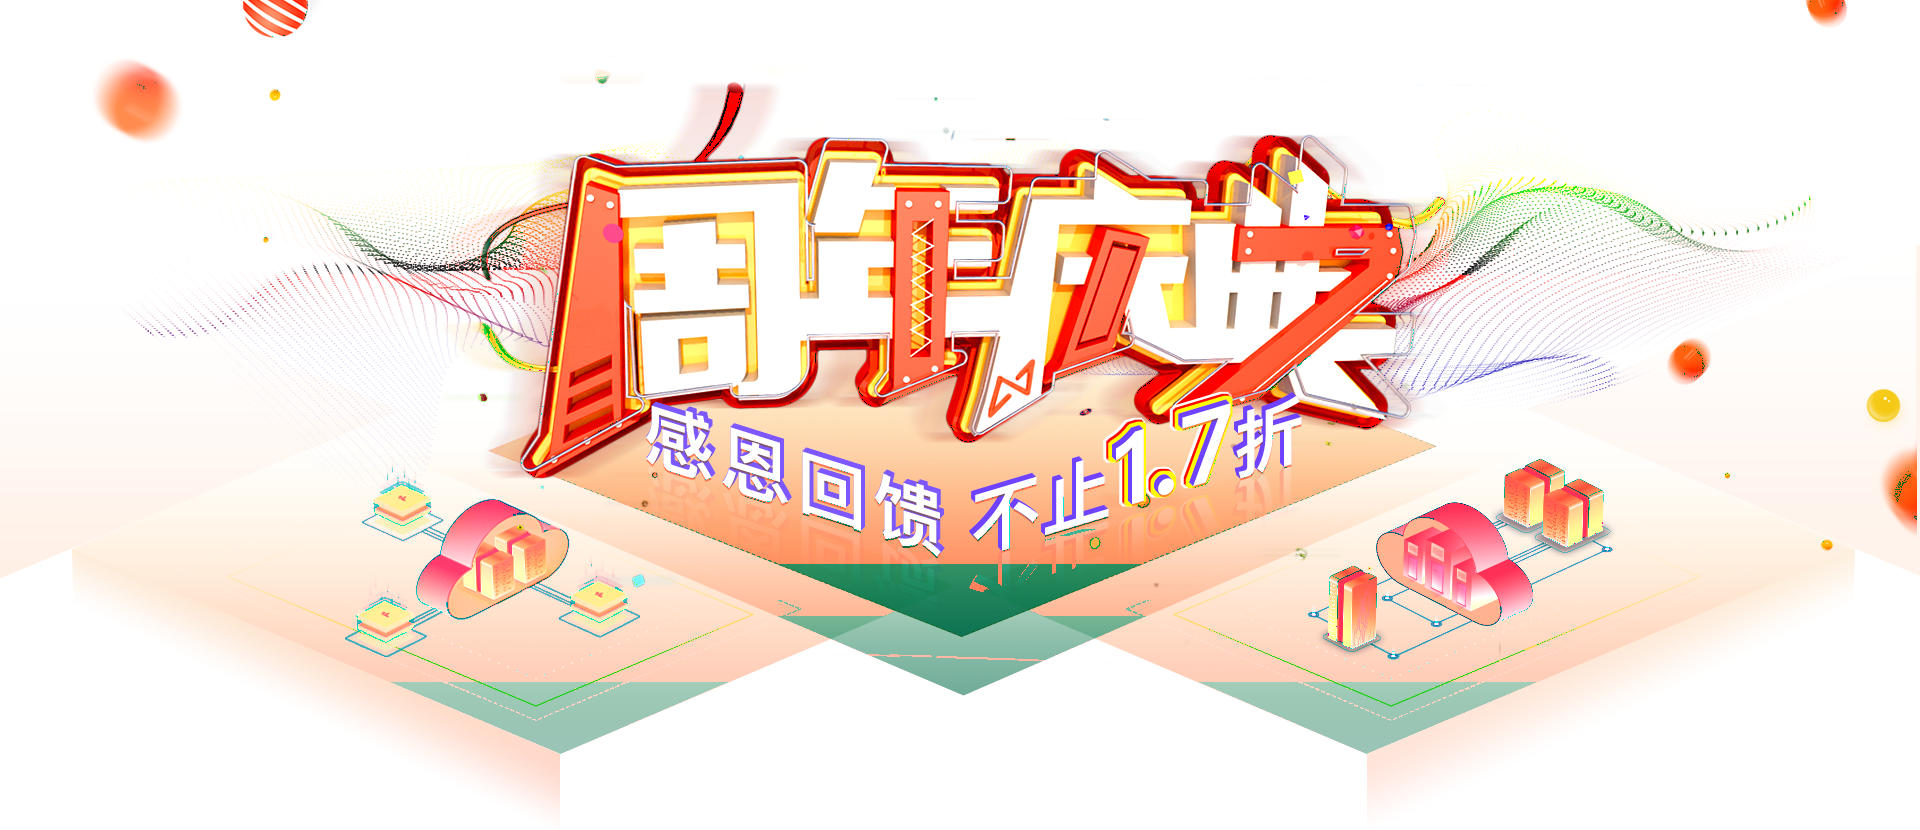
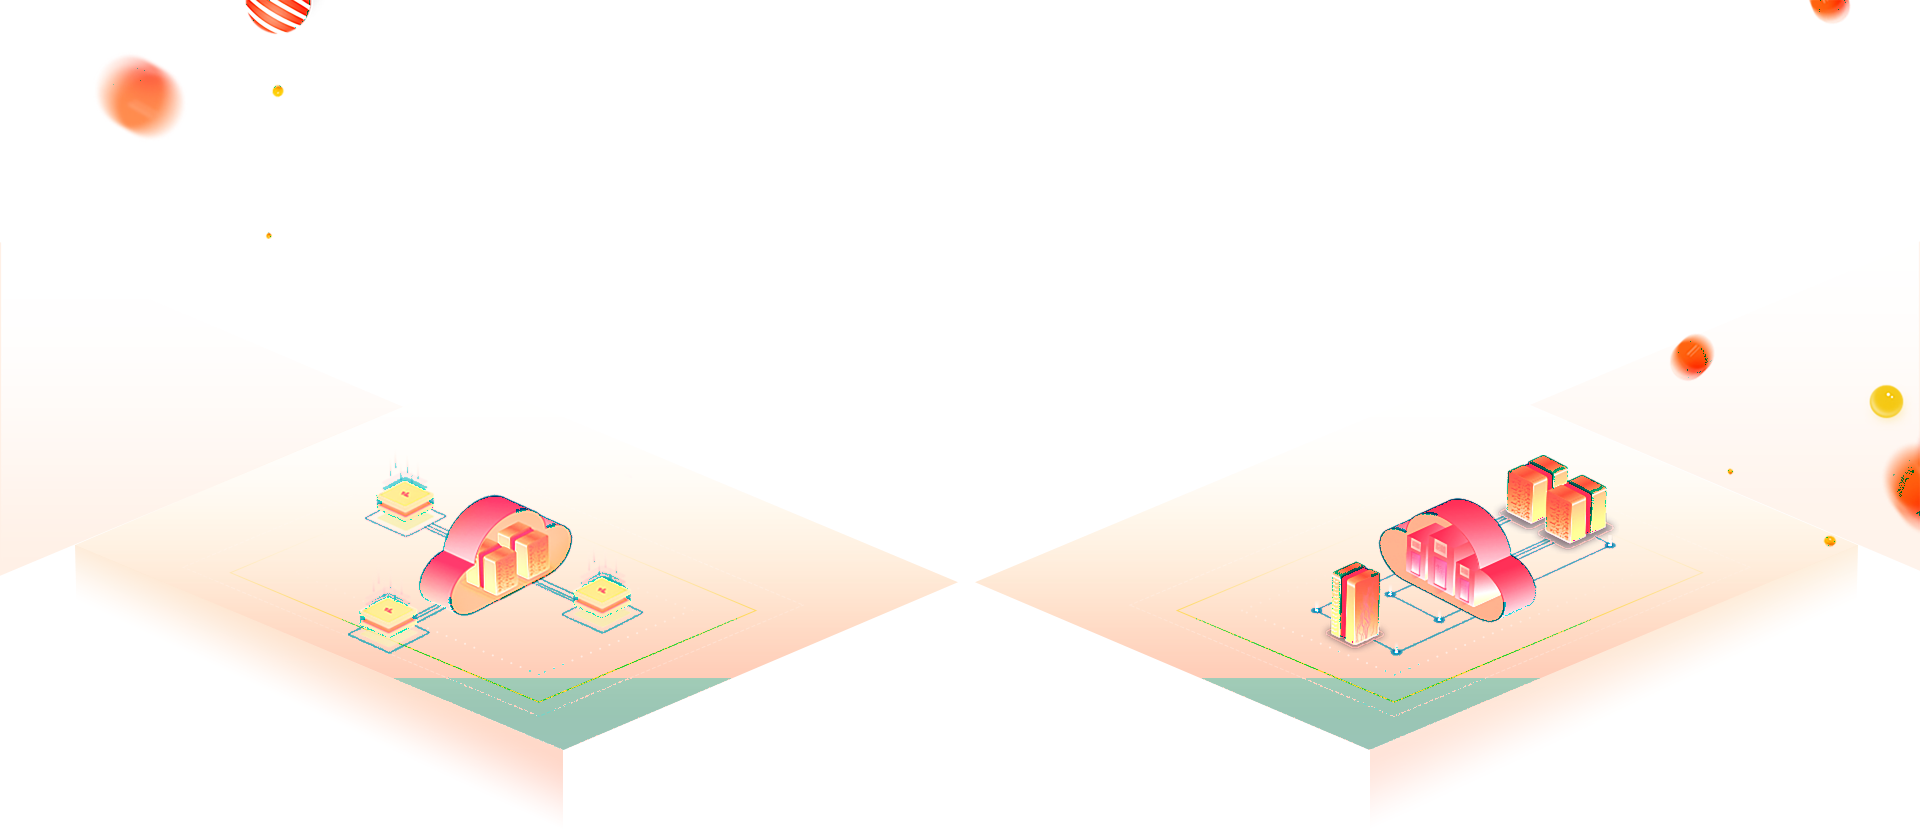
'q'

diff --git a/src/components/App/active/anniversaryActive.vue b/src/components/App/active/anniversaryActive.vue
@@ -3,7 +3,7 @@
     <!-- 抽奖 -->
     <div class="active-1">
       <div class="banner">
-        这是页面banner
+        <img src="../../../assets/img/active/anniversary/aa-banner1.png" />
       </div>
       <div class="lottery">
         <div id="rotary-table">
@@ -176,8 +176,8 @@
   .active-1 {
     background-color: #FEEDDF;
     .banner {
-      height: 830px;
-      background: #FEEDDF url("../../../assets/img/active/anniversary/aa-banner1.png") center no-repeat;
+      height: 837px;
+      background: #FEEDDF url("../../../assets/img/active/anniversary/aa-banner2.png") center no-repeat;
     }
     .lottery {
       display: flex;
